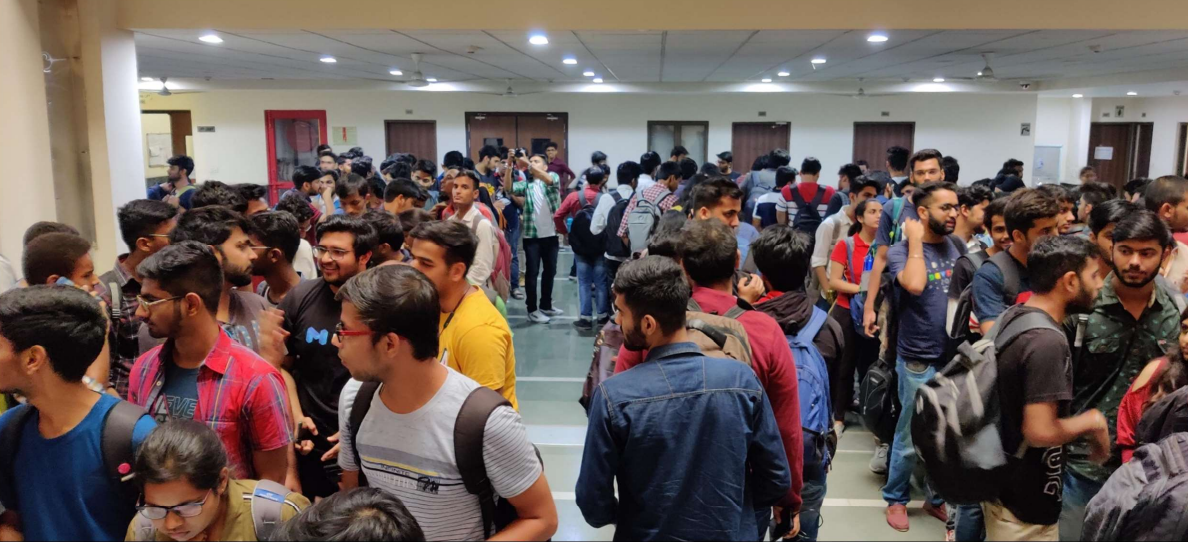
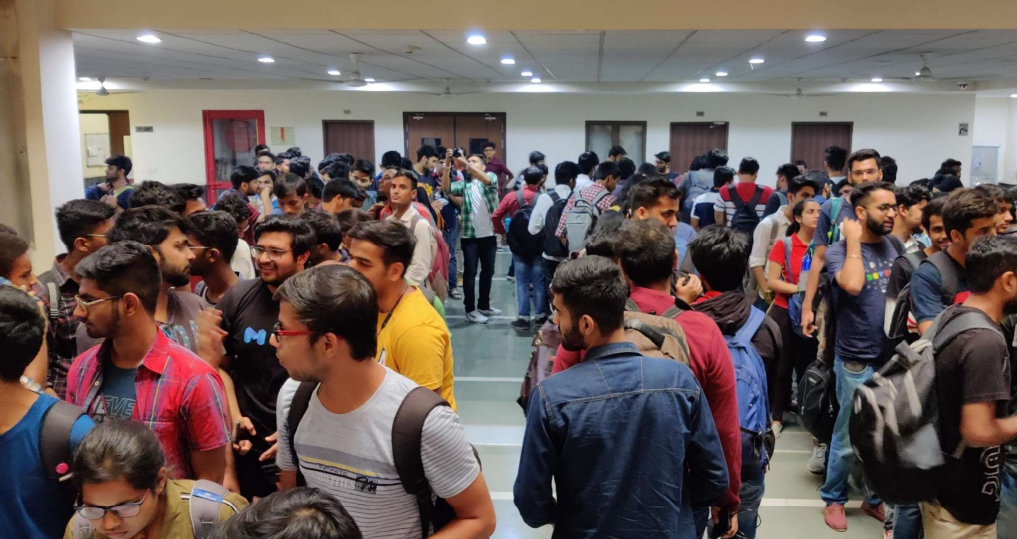
Reuploaded glimpses images with ratio 1.8:1

diff --git a/assets/css/style.css b/assets/css/style.css
@@ -1584,7 +1584,7 @@ lord-icon {
     background: rgba(31, 38, 49, 0.75);
   }
   .banner-parallax{
-    background-image: url("../img/banner/banner-mobile.png");
+    background-image: url("../img/banner/8.jpg");
   }
 
   .button-register{
